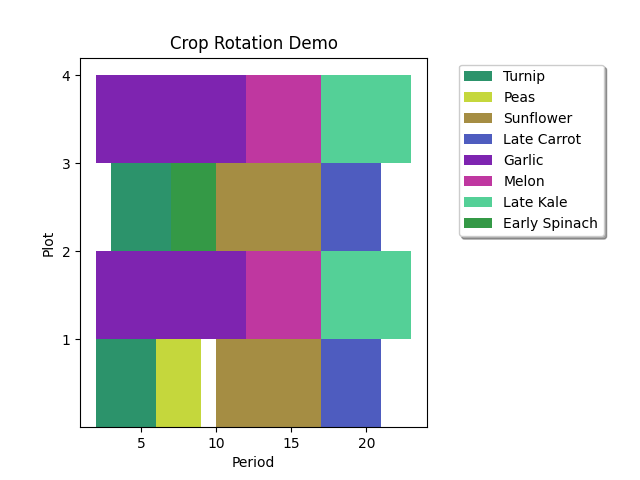
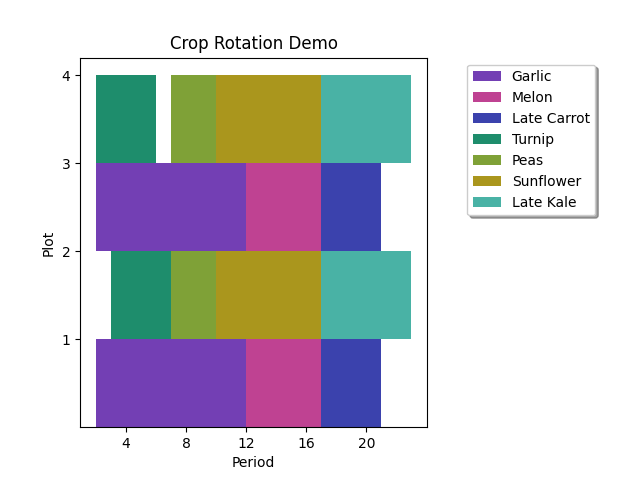
Improve period labels in solution rendering.

diff --git a/crop_rotation.py b/crop_rotation.py
@@ -332,13 +332,16 @@ class CropRotation:
         """
         labels = set()  # keep track of labels so legend won't have duplicates.
         width = 1
+        max_x = 1
         fig, ax = plt.subplots()
+
         for k, plot in enumerate(self.plot_adjacency):
             for period in range(1, self.time_units + 1):
                 crop = sample[f'{plot},{period}']
 
                 if crop:
                     xs = list(range(period, period + self.grow_time[crop]))
+                    max_x = max(max_x, max(xs))
                     ys = [1] * len(xs)
                     color = self.crop_colors[crop]
                     bottom = [k] * len(xs)
@@ -347,10 +350,24 @@ class CropRotation:
                     ax.bar(xs, ys, width, bottom=bottom, color=color,
                            label=label, align='edge')
 
+        # indicate wrap-around periods by repeating the 1..time_units labels.
+        xticklabels = [1 + (x % self.time_units) for x in range(max_x + 1)]
+
         plt.title('Crop Rotation Demo')
         ax.set_xlabel('Period')
         ax.set_ylabel('Plot')
+        ax.set_xticks(list(range(1, max_x + 2)))
+        ax.set_xticklabels(xticklabels)
         ax.set_yticks(list(self.plot_adjacency.keys()))
+
+        # hide a fraction of labels or they will be hard to read.
+        if len(xticklabels) > 10:
+            xticks = ax.xaxis.get_major_ticks()
+            divisor = len(xticklabels) // 5
+            if divisor:
+                for k, x in enumerate(xticklabels):
+                    if k % divisor != divisor - 1:
+                        xticks[k].set_visible(False)
 
         # place legend to right of chart.
         box = ax.get_position()
